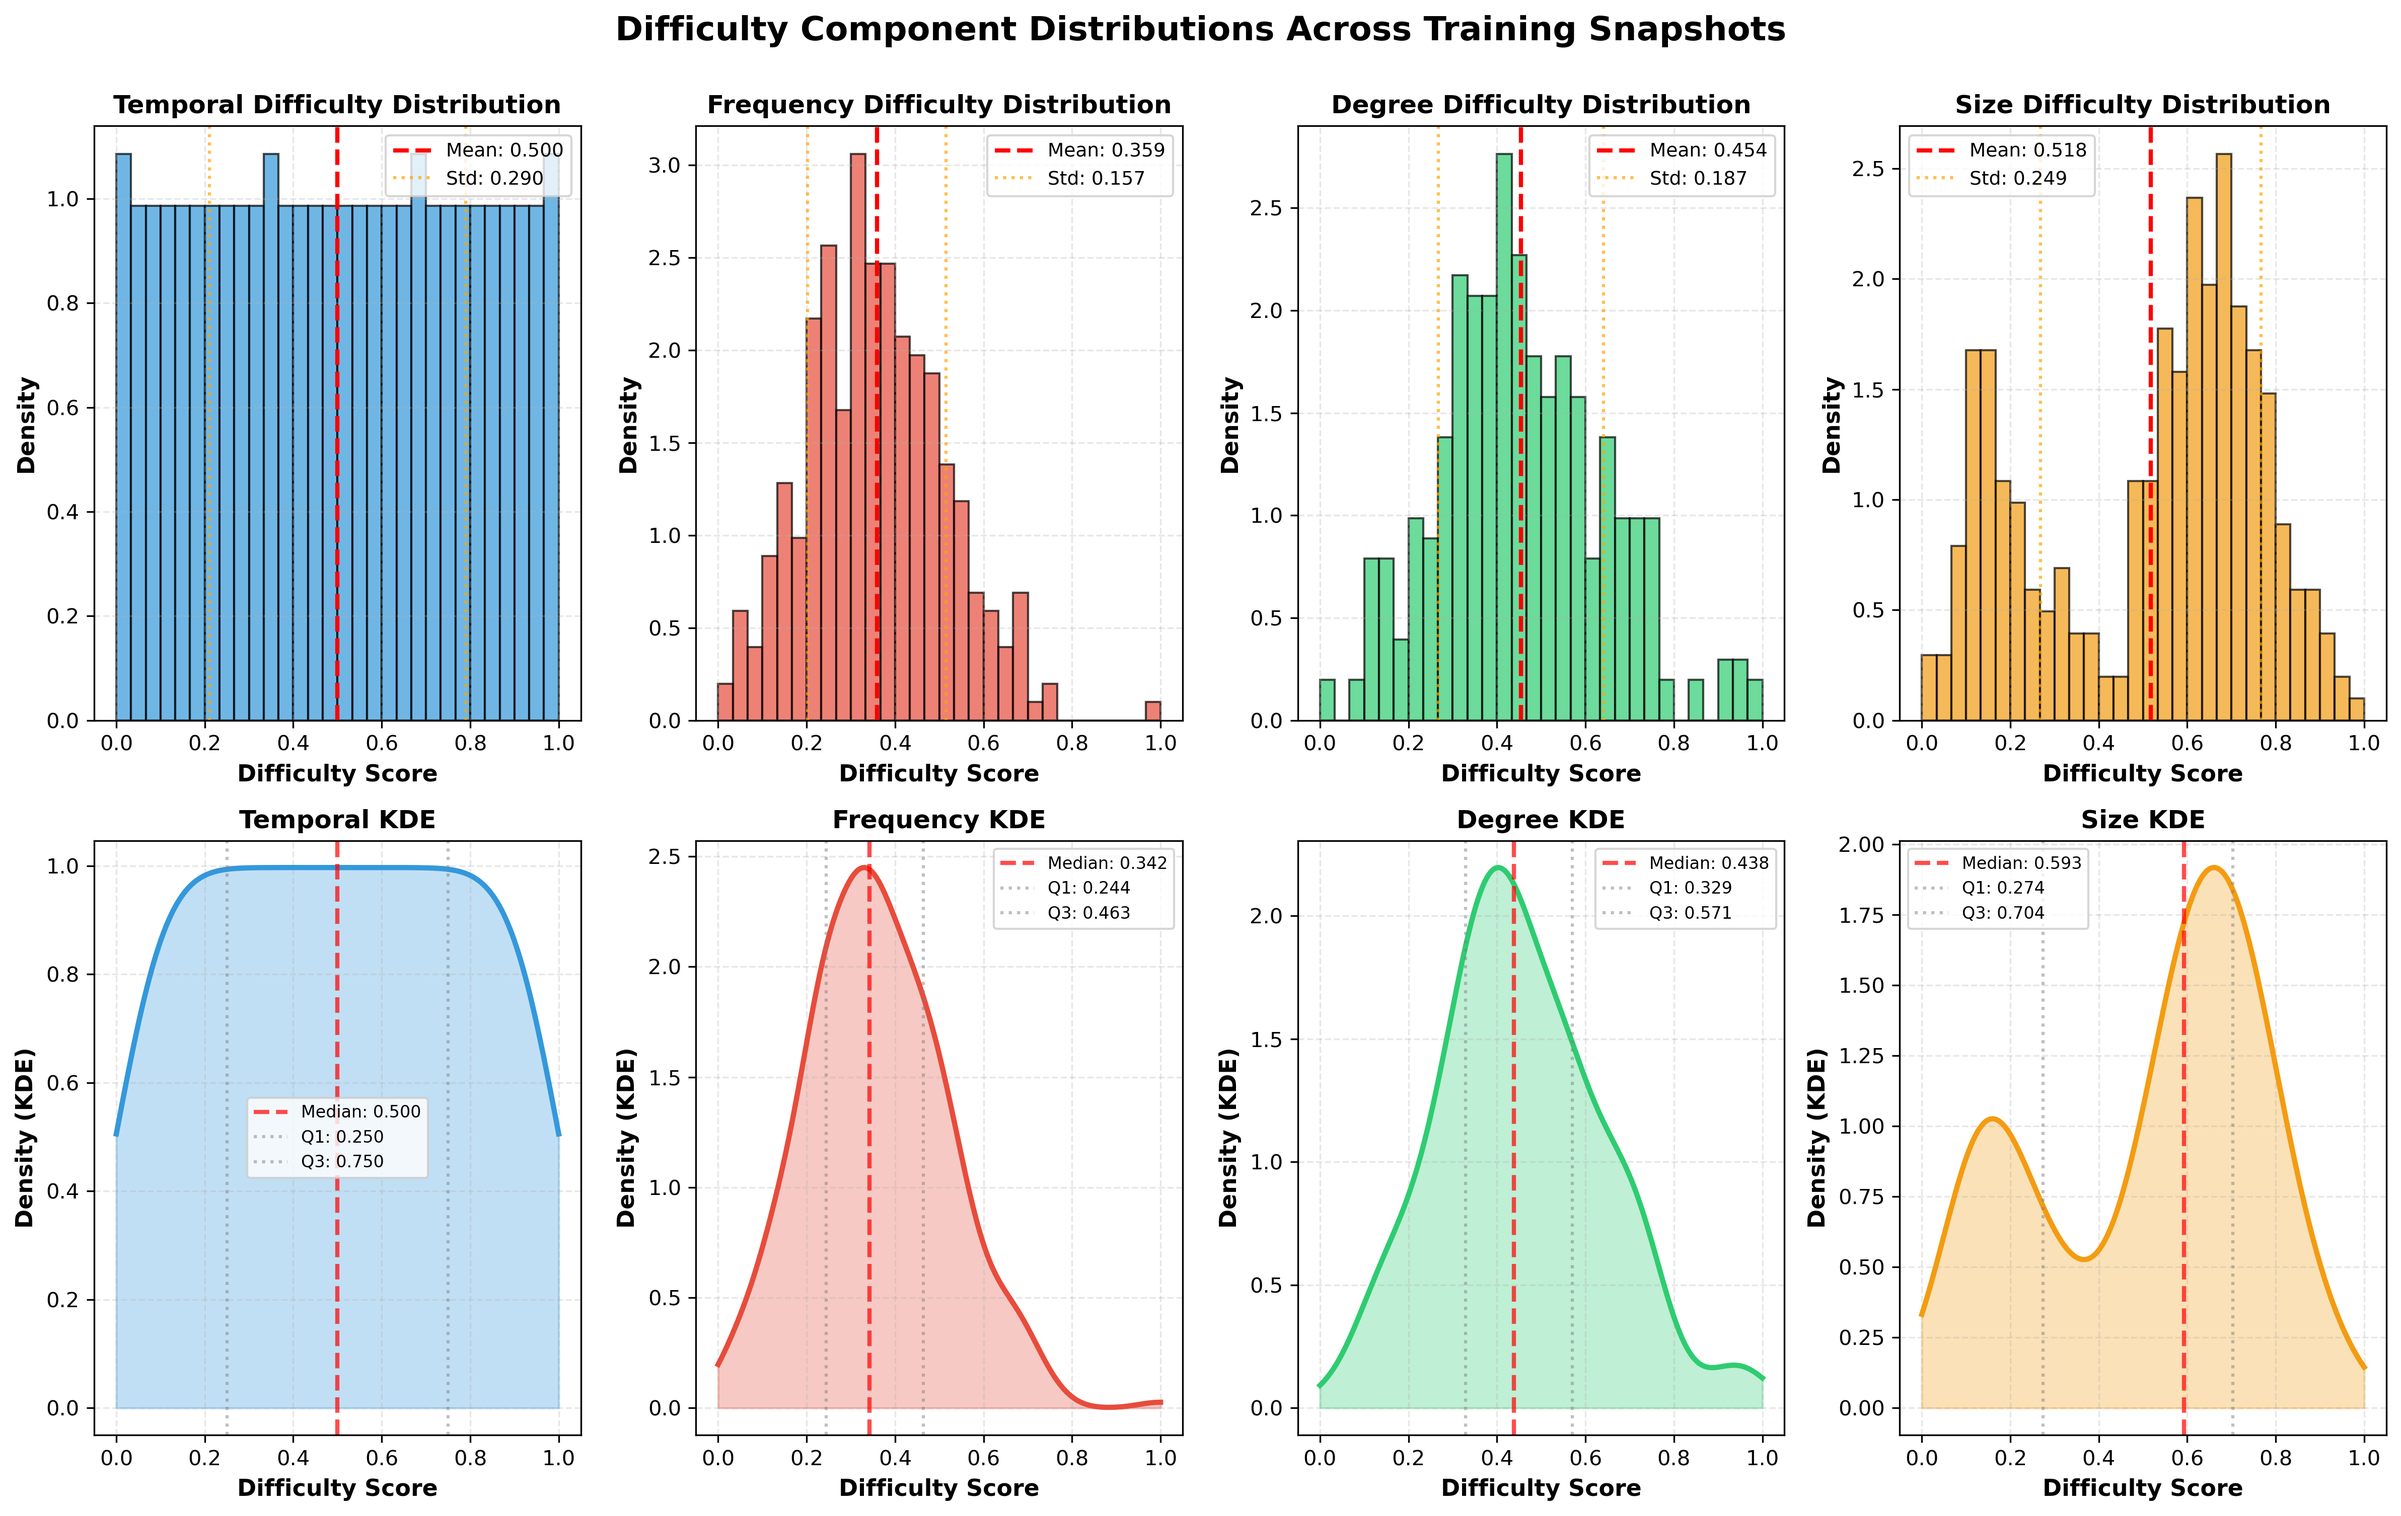
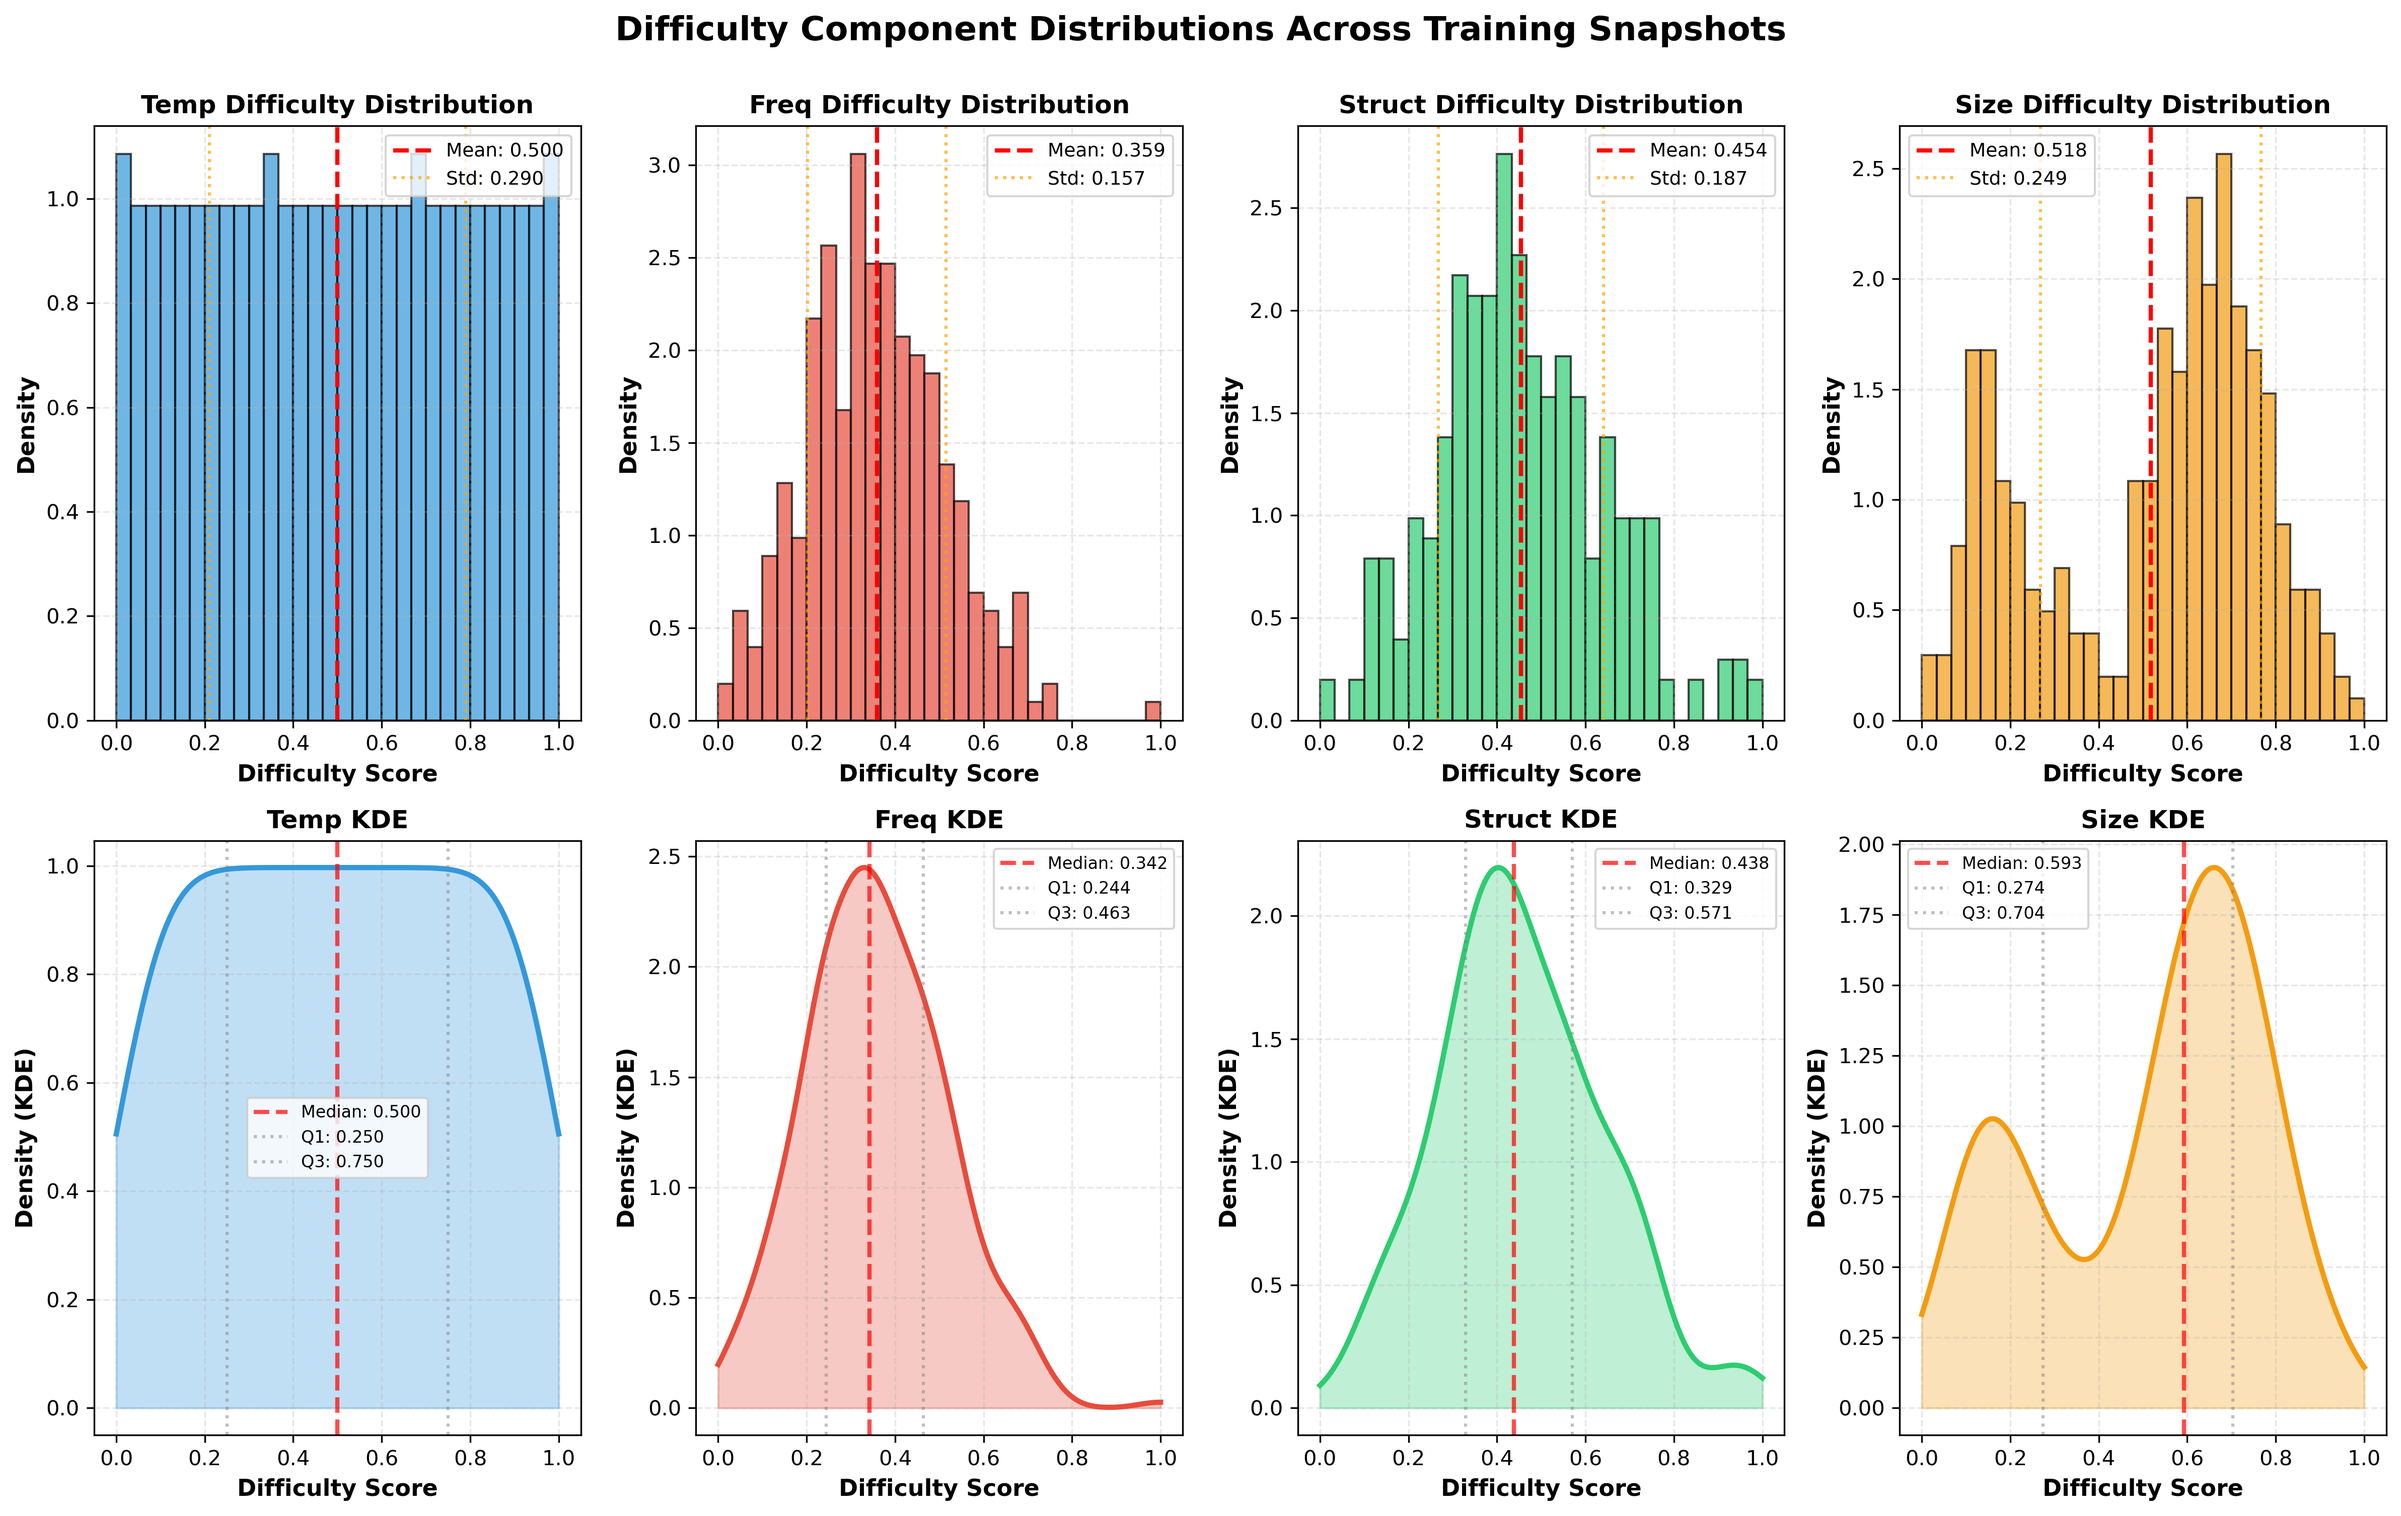
visualisations

diff --git a/src/main.py b/src/main.py
@@ -23,7 +23,7 @@ import pandas as pd
 import matplotlib.pyplot as plt
 import warnings
 warnings.filterwarnings('ignore')
-
+from scipy import stats
 
 
 def update_dict(subg_arr, s_to_sro, sr_to_sro,sro_to_fre, num_rels):
@@ -635,9 +635,9 @@ class DifficultyVisualizer:
         
         # Store normalized component scores
         self.component_scores = {
-            'Temporal': np.array(temporal_scores),
-            'Frequency': np.array(frequency_scores),
-            'Degree': np.array(degree_scores),
+            'Temp': np.array(temporal_scores),
+            'Freq': np.array(frequency_scores),
+            'Struct': np.array(degree_scores),
             'Size': np.array(size_scores)
         }
         
@@ -660,7 +660,7 @@ class DifficultyVisualizer:
         
         fig, axes = plt.subplots(2, 4, figsize=figsize)
         colors = ['#3498db', '#e74c3c', '#2ecc71', '#f39c12']
-        component_names = ['Temporal', 'Frequency', 'Degree', 'Size']
+        component_names = ['Temp', 'Freq', 'Struct', 'Size']
         
         for idx, (name, color) in enumerate(zip(component_names, colors)):
             scores = self.component_scores[name]
@@ -721,7 +721,7 @@ class DifficultyVisualizer:
             self.compute_component_scores()
         
         # Create correlation matrix
-        component_names = ['Temporal', 'Frequency', 'Degree', 'Size']
+        component_names = ['Temp', 'Freq', 'Struct', 'Size']
         n_components = len(component_names)
         corr_matrix = np.zeros((n_components, n_components))
         
@@ -808,7 +808,7 @@ class DifficultyVisualizer:
         axes = axes.flatten()
         
         colors = ['#3498db', '#e74c3c', '#2ecc71', '#f39c12']
-        component_names = ['Temporal', 'Frequency', 'Degree', 'Size']
+        component_names = ['Temp', 'Freq', 'Struct', 'Size']
         
         snapshot_indices = np.arange(len(self.train_list))
         
@@ -844,7 +844,7 @@ class DifficultyVisualizer:
         
         return fig
     
-    def plot_combined_difficulty(self, save_path='combined_difficulty.png', figsize=(14, 6)):
+    def plot_combined_difficulty(self, save_path='combined_difficulty.png', figsize=(14, 6), dataset_name='ICEWS'):
         """
         Plot the final combined difficulty score compared to individual components.
         """
@@ -857,57 +857,63 @@ class DifficultyVisualizer:
             temporal_weight = 0.8 - freq_weight
             
             combined = (
-                temporal_weight * self.component_scores['Temporal'] +
-                freq_weight * self.component_scores['Frequency'] +
-                0.15 * self.component_scores['Degree'] +
+                temporal_weight * self.component_scores['Temp'] +
+                freq_weight * self.component_scores['Freq'] +
+                0.15 * self.component_scores['Struct'] +
                 0.05 * self.component_scores['Size']
             )
         else:
             # Fallback to equal weights
-            combined = np.mean([self.component_scores[name] for name in ['Temporal', 'Frequency', 'Degree', 'Size']], axis=0)
+            combined = np.mean([self.component_scores[name] for name in ['Temp', 'Freq', 'Struct', 'Size']], axis=0)
         
         fig, (ax1, ax2) = plt.subplots(1, 2, figsize=figsize)
         
         snapshot_indices = np.arange(len(self.train_list))
         
         # Plot 1: All components together
-        colors = ['#3498db', '#e74c3c', '#2ecc71', '#f39c12']
-        component_names = ['Temporal', 'Frequency', 'Degree', 'Size']
+        # colors = ['#3498db', '#e74c3c', '#2ecc71', '#f39c12']
+        colors = ["#1F77B4", "#C44E52", "#FFA600", "#2F9E44", "#B22222"]
+        component_names = ['Temp', 'Freq', 'Struct', 'Size']
         
         for name, color in zip(component_names, colors):
             ax1.plot(snapshot_indices, self.component_scores[name], 
-                    color=color, linewidth=2, alpha=0.7, label=name)
+                    color=color, linewidth=3, alpha=0.7, label=name)
         
         ax1.plot(snapshot_indices, combined, color='black', linewidth=3, 
-                linestyle='--', label='Combined', alpha=0.9)
-        ax1.set_xlabel('Snapshot Index', fontsize=11, fontweight='bold')
-        ax1.set_ylabel('Difficulty Score', fontsize=11, fontweight='bold')
-        ax1.set_title('All Difficulty Components', fontsize=12, fontweight='bold')
-        ax1.legend(fontsize=9, loc='best')
+                linestyle='--', label='Composite', alpha=0.9)
+        ax1.set_xlabel('Snapshot Index', fontsize=18, fontweight='bold')
+        ax1.set_ylabel('Difficulty Score', fontsize=18, fontweight='bold')
+        ax1.tick_params(axis='both', which='major', labelsize=18)
+        # ax1.set_title(dataset_name, fontsize=18, fontweight='bold')
+        ax1.legend(prop={'size': 18, 'weight': 'bold'}, loc=2, ncol=3, mode="expand", borderaxespad=0., framealpha=0.5)
         ax1.grid(True, alpha=0.3)
         
         # Plot 2: Combined difficulty distribution
-        ax2.hist(combined, bins=25, color='purple', alpha=0.7, edgecolor='black', density=True)
+        ax2.hist(combined, bins=25, color='#4C72B0', alpha=0.7, edgecolor='black', density=True)
+        kde = stats.gaussian_kde(combined)
+        x_range = np.linspace(combined.min(), combined.max(), 200)
+        ax2.plot(x_range, kde(x_range), color='#2B3A4A', linewidth=3, label='KDE')
         
         # Add KDE
-        try:
-            kde = stats.gaussian_kde(combined)
-            x_range = np.linspace(combined.min(), combined.max(), 200)
-            ax2.plot(x_range, kde(x_range), color='darkviolet', linewidth=2.5, label='KDE')
-        except:
-            pass
+        # try:
+        #     kde = stats.gaussian_kde(combined)
+        #     x_range = np.linspace(combined.min(), combined.max(), 200)
+        #     ax2.plot(x_range, kde(x_range), color='darkviolet', linewidth=2.5, label='KDE')
+        # except:
+        #     pass
         
         mean_val = np.mean(combined)
-        ax2.axvline(mean_val, color='red', linestyle='--', linewidth=2, 
-                   label=f'Mean: {mean_val:.3f}')
+        ax2.axvline(mean_val, color='#C44E52', linestyle='--', linewidth=4, 
+                   label=f'Mean: {mean_val:.2f}')
         
-        ax2.set_xlabel('Combined Difficulty Score', fontsize=11, fontweight='bold')
-        ax2.set_ylabel('Density', fontsize=11, fontweight='bold')
-        ax2.set_title('Combined Difficulty Distribution', fontsize=12, fontweight='bold')
-        ax2.legend(fontsize=9)
+        ax2.set_xlabel('Composite Difficulty Score', fontsize=18, fontweight='bold')
+        ax2.set_ylabel('Density', fontsize=18, fontweight='bold')
+        ax2.tick_params(axis='both', which='major', labelsize=18)
+        # ax2.set_title('Combined Difficulty Distribution', fontsize=18, fontweight='bold')
+        ax2.legend(prop={'size': 18, 'weight': 'bold'})
         ax2.grid(True, alpha=0.3)
         
-        plt.suptitle('Combined Difficulty Score Analysis', fontsize=14, fontweight='bold')
+        plt.suptitle('Composite Difficulty Score Analysis', fontsize=14, fontweight='bold')
         plt.tight_layout()
         plt.savefig(save_path, dpi=300, bbox_inches='tight')
         print(f"Saved combined difficulty to {save_path}")
@@ -915,7 +921,7 @@ class DifficultyVisualizer:
         
         return combined
     
-    def generate_all_visualizations(self, output_dir='./visualizations/'):
+    def generate_all_visualizations(self, output_dir='./visualizations/', dataset_name='ICEWS'):
         """
         Generate all difficulty landscape visualizations at once.
         """
@@ -943,7 +949,7 @@ class DifficultyVisualizer:
         
         # 4. Combined difficulty
         self.plot_combined_difficulty(
-            save_path=os.path.join(output_dir, 'combined_difficulty.png')
+            save_path=os.path.join(output_dir, 'combined_difficulty.png'), dataset_name='icews'
         )
         
         print("\n" + "="*60)
@@ -963,7 +969,7 @@ class DifficultyVisualizer:
         print("DIFFICULTY COMPONENT STATISTICS")
         print("="*60)
         
-        for name in ['Temporal', 'Frequency', 'Degree', 'Size']:
+        for name in ['Temp', 'Freq', 'Struct', 'Size']:
             scores = self.component_scores[name]
             print(f"\n{name}:")
             print(f"  Mean:   {np.mean(scores):.4f}")
@@ -1115,7 +1121,7 @@ def visualize_difficulty_landscape(train_list, dataset_name='ICEWS'):
     
     # Generate all visualizations
     output_dir = f'./visualizations_{dataset_name}/'
-    visualizer.generate_all_visualizations(output_dir=output_dir)
+    visualizer.generate_all_visualizations(output_dir=output_dir, dataset_name=dataset_name)
     
     return visualizer   
 
